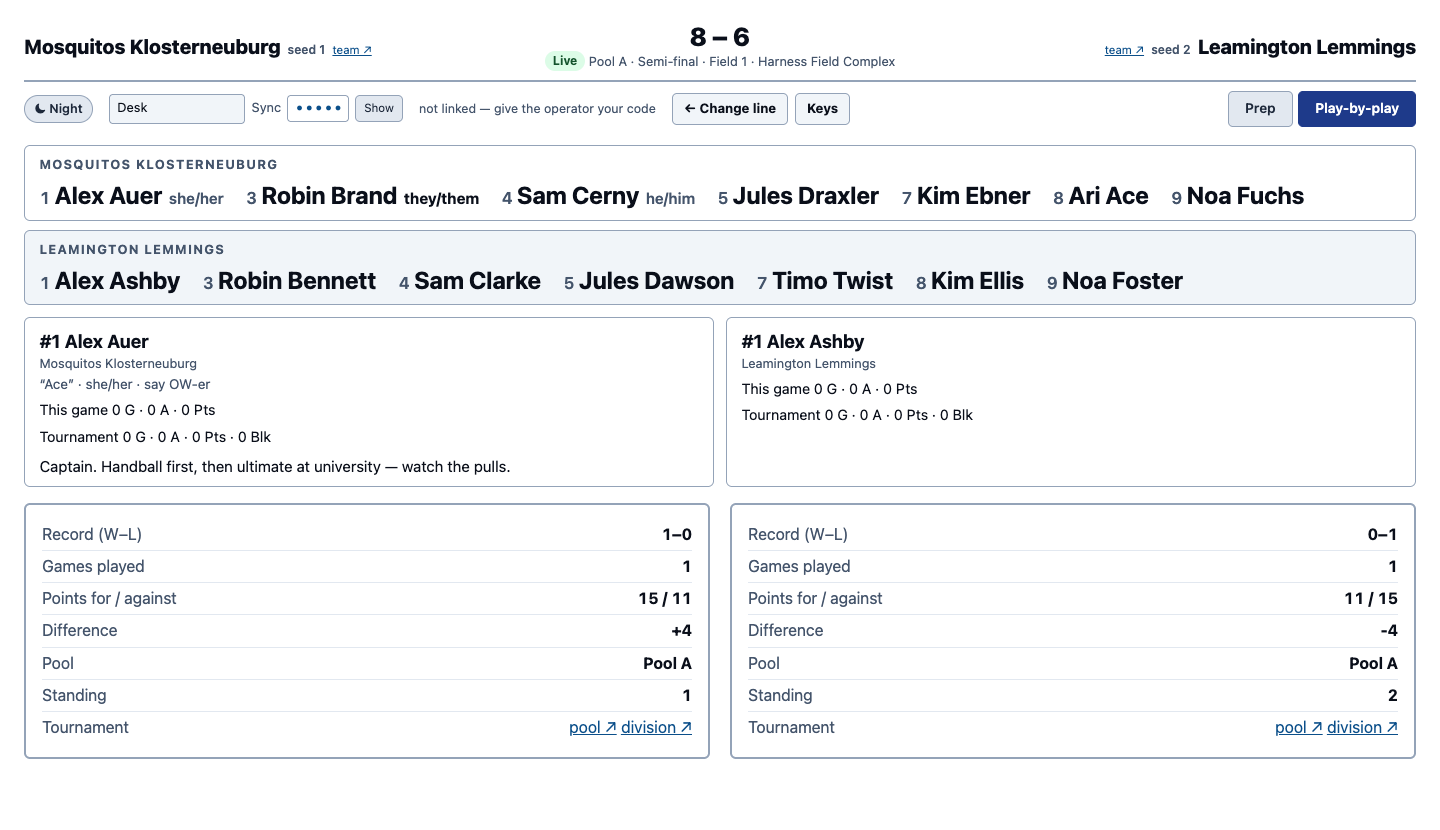
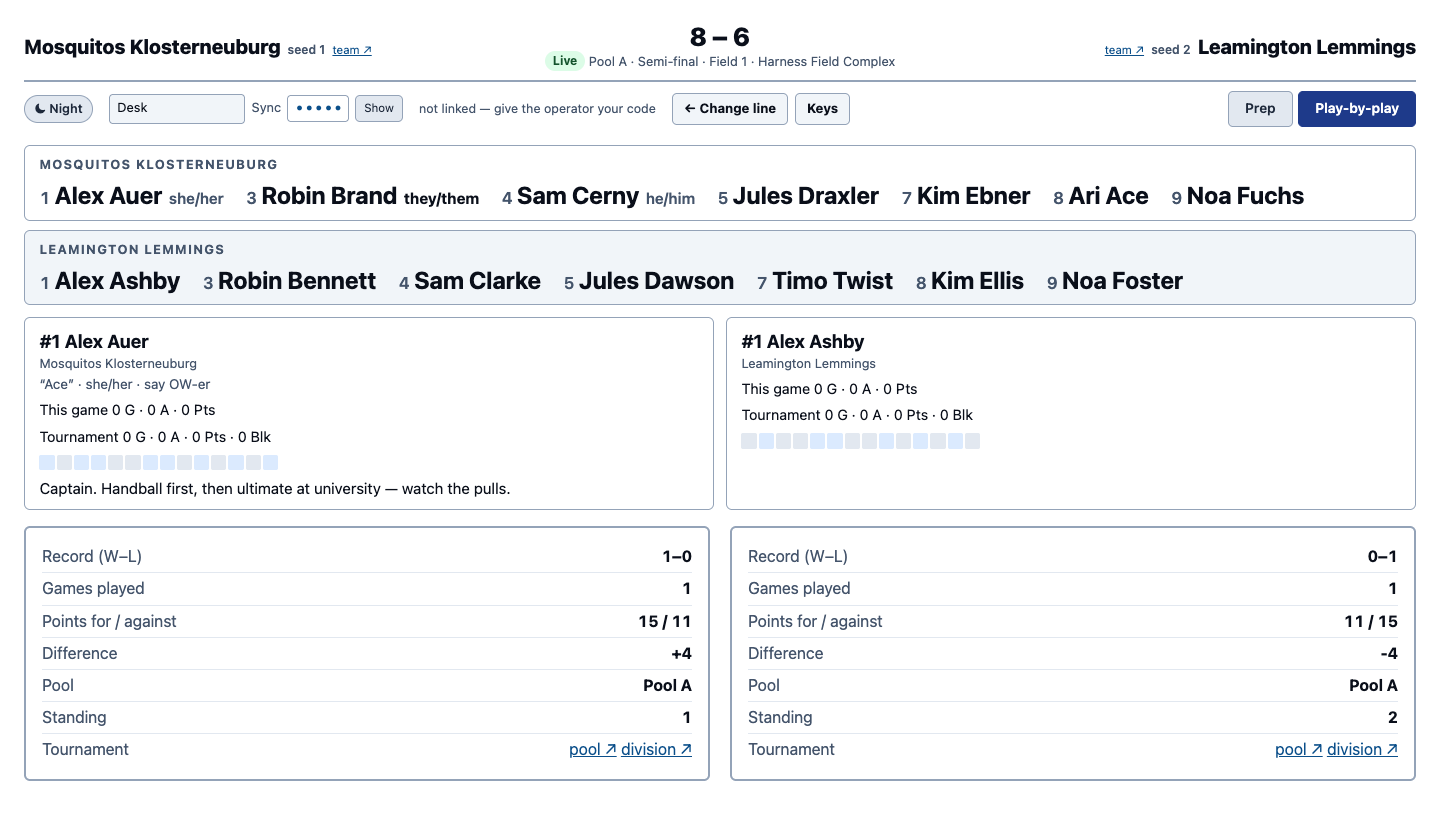
Give quick cards a per-point strip of scores and this player's marks

Changed region(s): [[0.0312, 0.5422, 0.9688, 0.9337], [0.5, 0.512, 0.6875, 0.5422]]

diff --git a/tests/e2e/notes.spec.js b/tests/e2e/notes.spec.js
@@ -470,6 +470,11 @@ test.describe('prepared notes', () => {
       await expect(page.locator('#quickcards .qcard').first())
         .toContainText('Captain. Started playing in Graz.');
       await expect(page.locator('#quickcards .qcard .say .hi')).toHaveText('they/them');
+      // The point strip: one cell per point of the 8-6 fixture game, and the
+      // scored/conceded split reads from each card's own side.
+      await expect(page.locator('#quickcards .qcard').first().locator('.qp')).toHaveCount(14);
+      await expect(page.locator('#quickcards .qcard').first().locator('.qp.won')).toHaveCount(8);
+      await expect(page.locator('#quickcards .qcard').nth(1).locator('.qp.won')).toHaveCount(6);
 
       // Another number replaces the pair rather than growing a stack.
       await page.keyboard.press('Digit3');

diff --git a/commentator.php b/commentator.php
@@ -428,6 +428,12 @@ try {
     .qcard .say .hi { color: var(--ink); font-weight: 700; }
     .qcard .qline { font-size: .9rem; margin-top: .35rem; white-space: nowrap; }
     .qcard .qnote { margin: .45rem 0 0; white-space: pre-wrap; font-size: .95rem; }
+    .qcard .qpoints { display: flex; flex-wrap: wrap; gap: 2px; margin-top: .45rem; }
+    .qcard .qp { width: .95rem; height: .95rem; border-radius: 2px; background: var(--sunk);
+        font-size: .62rem; font-weight: 700; line-height: .95rem; text-align: center;
+        color: transparent; }
+    .qcard .qp.won { background: var(--accent-soft); }
+    .qcard .qp.me { background: var(--accent); color: var(--accent-ink); }
     .onfield .p span { color: var(--ink-mute); font-size: 1.05rem; font-weight: 600; margin-right: .3rem;
                        font-variant-numeric: tabular-nums; }
     .onfield .empty { color: var(--ink-mute); font-size: .95rem; }
@@ -2958,10 +2964,41 @@ try {
             'Tournament  ' + (p.tGoals || 0) + ' G · ' + (p.tAssists || 0) + ' A · '
             + (p.tTotal || 0) + ' Pts'
             + (blocks ? ' · ' + (p.tBlocks || 0) + ' Blk' : '')));
+        var strip = pointStrip(side, p);
+        if (strip) { card.append(strip); }
         // The payoff: what was prepared about this player, at the moment it is
         // worth saying.
         if (n && n.text) { card.append(el('p', 'qnote', n.text)); }
         return card;
+    }
+
+    /**
+     * The game so far, one cell per point: filled when this side scored it,
+     * lettered where this player took the goal (G) or the assist (A) — "what
+     * have they done today", readable mid-point without opening anything.
+     *
+     * Points PLAYED are absent deliberately, not forgotten: no line history
+     * exists (a selection is kept only for the current point), and blocks are
+     * in no per-game payload (`STUDIO.md` §3.4) — and absence must never read
+     * as "did nothing".
+     */
+    function pointStrip(side, p) {
+        var goals = ((state.payload && state.payload.goals) || []).slice()
+            .sort(function (a, b) { return (Number(a.num) || 0) - (Number(b.num) || 0); });
+        if (!goals.length) { return null; }
+        var strip = el('div', 'qpoints');
+        goals.forEach(function (g) {
+            var won = (Number(g.ishomegoal) === 1) === side.isHome;
+            var mark = '';
+            if (Number(g.scorer) === Number(p.id)) { mark = 'G'; }
+            else if (Number(g.assist) === Number(p.id)) { mark = 'A'; }
+            var cell = el('span', 'qp' + (won ? ' won' : '') + (mark ? ' me' : ''), mark);
+            cell.title = 'Point ' + g.num + ' — '
+                + (won ? (side.team.name || 'this side') + ' scored' : 'conceded')
+                + (mark === 'G' ? ', their goal' : (mark === 'A' ? ', their assist' : ''));
+            strip.append(cell);
+        });
+        return strip;
     }
 
     function renderQuickCards() {

diff --git a/docs/COMMENTATOR.md b/docs/COMMENTATOR.md
@@ -512,7 +512,7 @@ That makes it another entry on the same list as possession: the pattern is deriv
 
 ## 6d. Quick cards: type the shirt number — **built**
 
-Mid-point there is no roster on screen and no time for a dialog, so the card is summoned by the thing the commentator is already looking at: the number on the shirt. Type it, and that player's compact card — number, name, the identity line, this game and the tournament, and the prepared note, which is the payoff — pins into a fixed region directly under the lines. Clicking a player's chip does the same for a mouse hand. A second card sits beside the first, which is what a matchup needs; a third replaces the oldest; Escape clears — a pending number first, then the cards. A **Keys** button in the toolbar opens the reference for all of it, plus the possession keys, in the same dialog the player sheet uses.
+Mid-point there is no roster on screen and no time for a dialog, so the card is summoned by the thing the commentator is already looking at: the number on the shirt. Type it, and that player's compact card — number, name, the identity line, this game and the tournament, a point strip, and the prepared note, which is the payoff — pins into a fixed region directly under the lines. The strip is one cell per point so far, filled where this side scored and lettered where this player took the goal or the assist; points *played* are deliberately absent (no line history exists — a selection is kept only for the current point) and so are per-game blocks (in no payload, `STUDIO.md` §3.4), because absence must never read as "did nothing". Clicking a player's chip does the same for a mouse hand. A second card sits beside the first, which is what a matchup needs; a third replaces the oldest; Escape clears — a pending number first, then the cards. A **Keys** button in the toolbar opens the reference for all of it, plus the possession keys, in the same dialog the player sheet uses.
 
 An earlier version mapped one key per on-field *position* — digits for the top team, a letter row for the bottom. It was a single blind keypress, and it was wrong: the keys did not mean jersey numbers, so #5 scoring invited pressing 5 and pinning whoever stood fifth in the line, and the mapping reshuffled with every line change so no muscle memory could form. Number entry types what the shirt says — nothing has to be found on the panel first, and practice compounds, because memorising jersey numbers is the job anyway.
 
